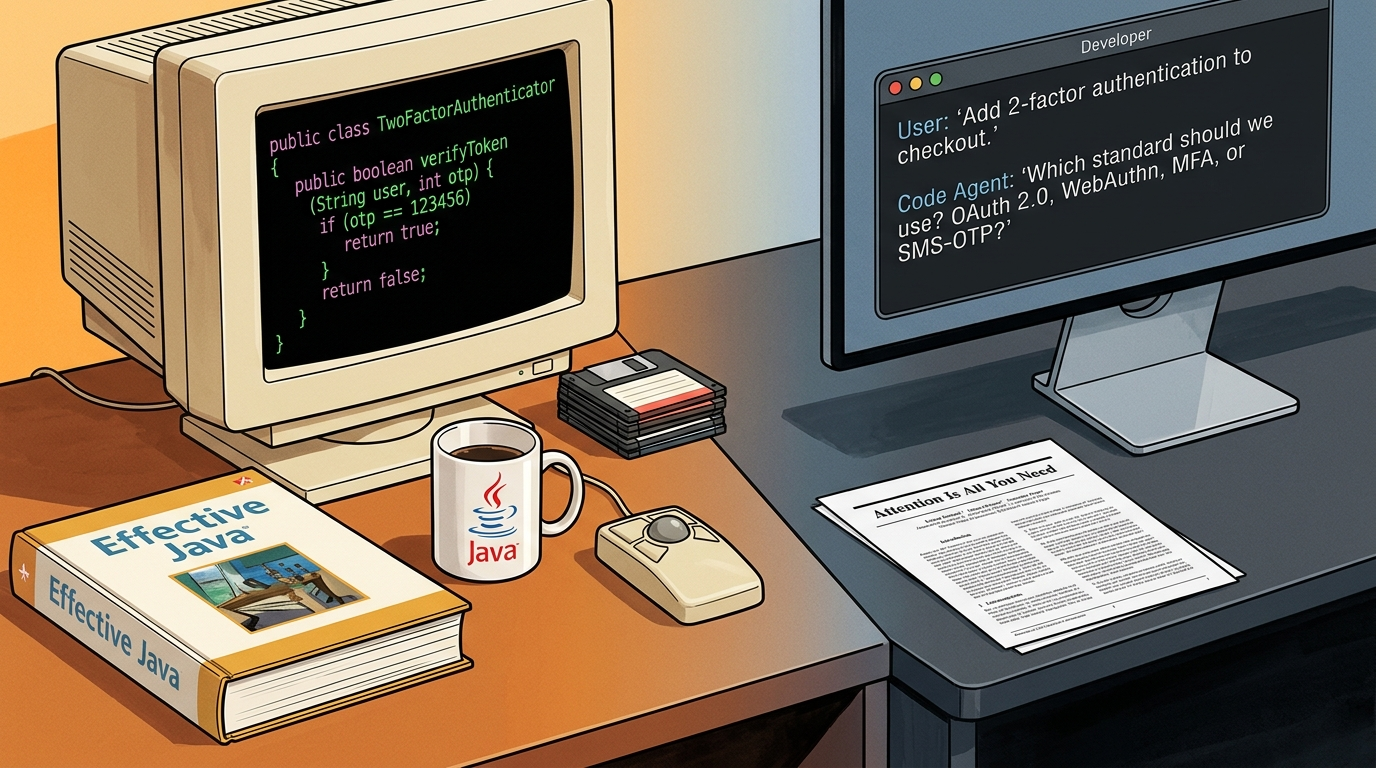
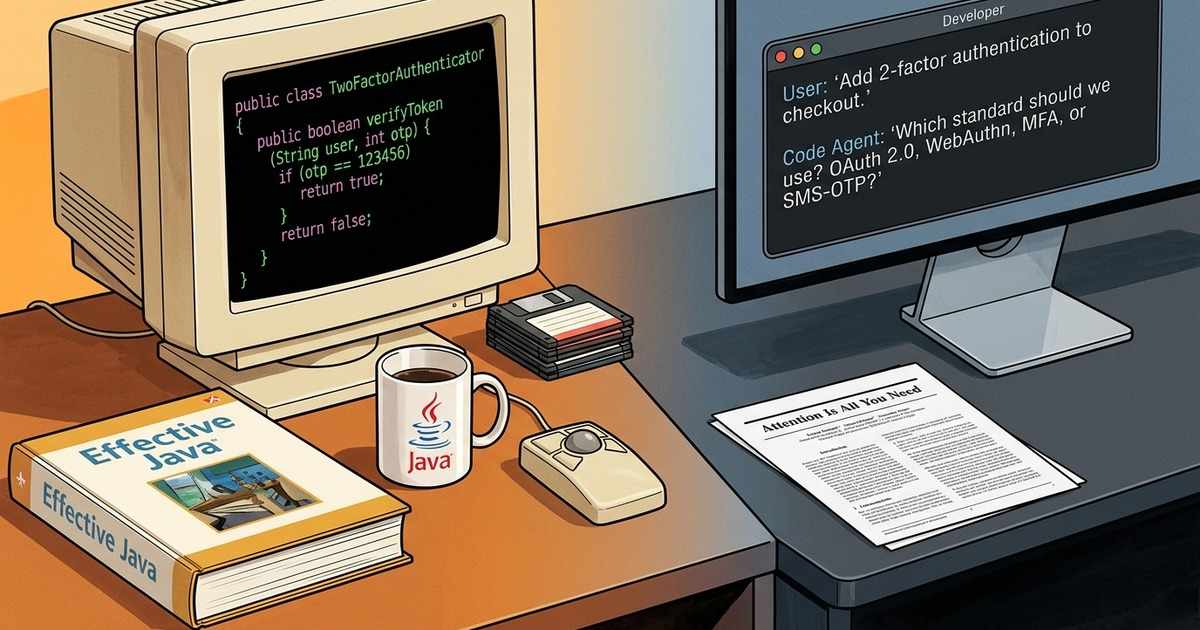
No TOC an shorten the description

diff --git a/content/posts/show-me-the-inference.md b/content/posts/show-me-the-inference.md
@@ -2,10 +2,9 @@
 title: "Show Me the Inference"
 date: 2026-08-28T12:00:00-07:00
 draft: false
-summary:
-  "Why I stopped writing code by hand after decades of software engineering, and
-  why local AI inference and autonomous multi-agent systems are where real
-  problem solving begins."
+summary: "Why I stopped writing code by hand after decades in engineering, and
+  why local AI inference and multi-agent systems are where real problem
+  solving begins."
 tags: ["AI", "Local AI", "Inference", "Multi-Agent", "Engineering"]
 categories: ["Essays"]
 cover:
@@ -14,6 +13,7 @@ cover:
   relative: false
   hidden: true
   hiddenInList: false
+showtoc: false
 ---
 
 I have always said if I am not coding, I am not happy. If my job did not involve
